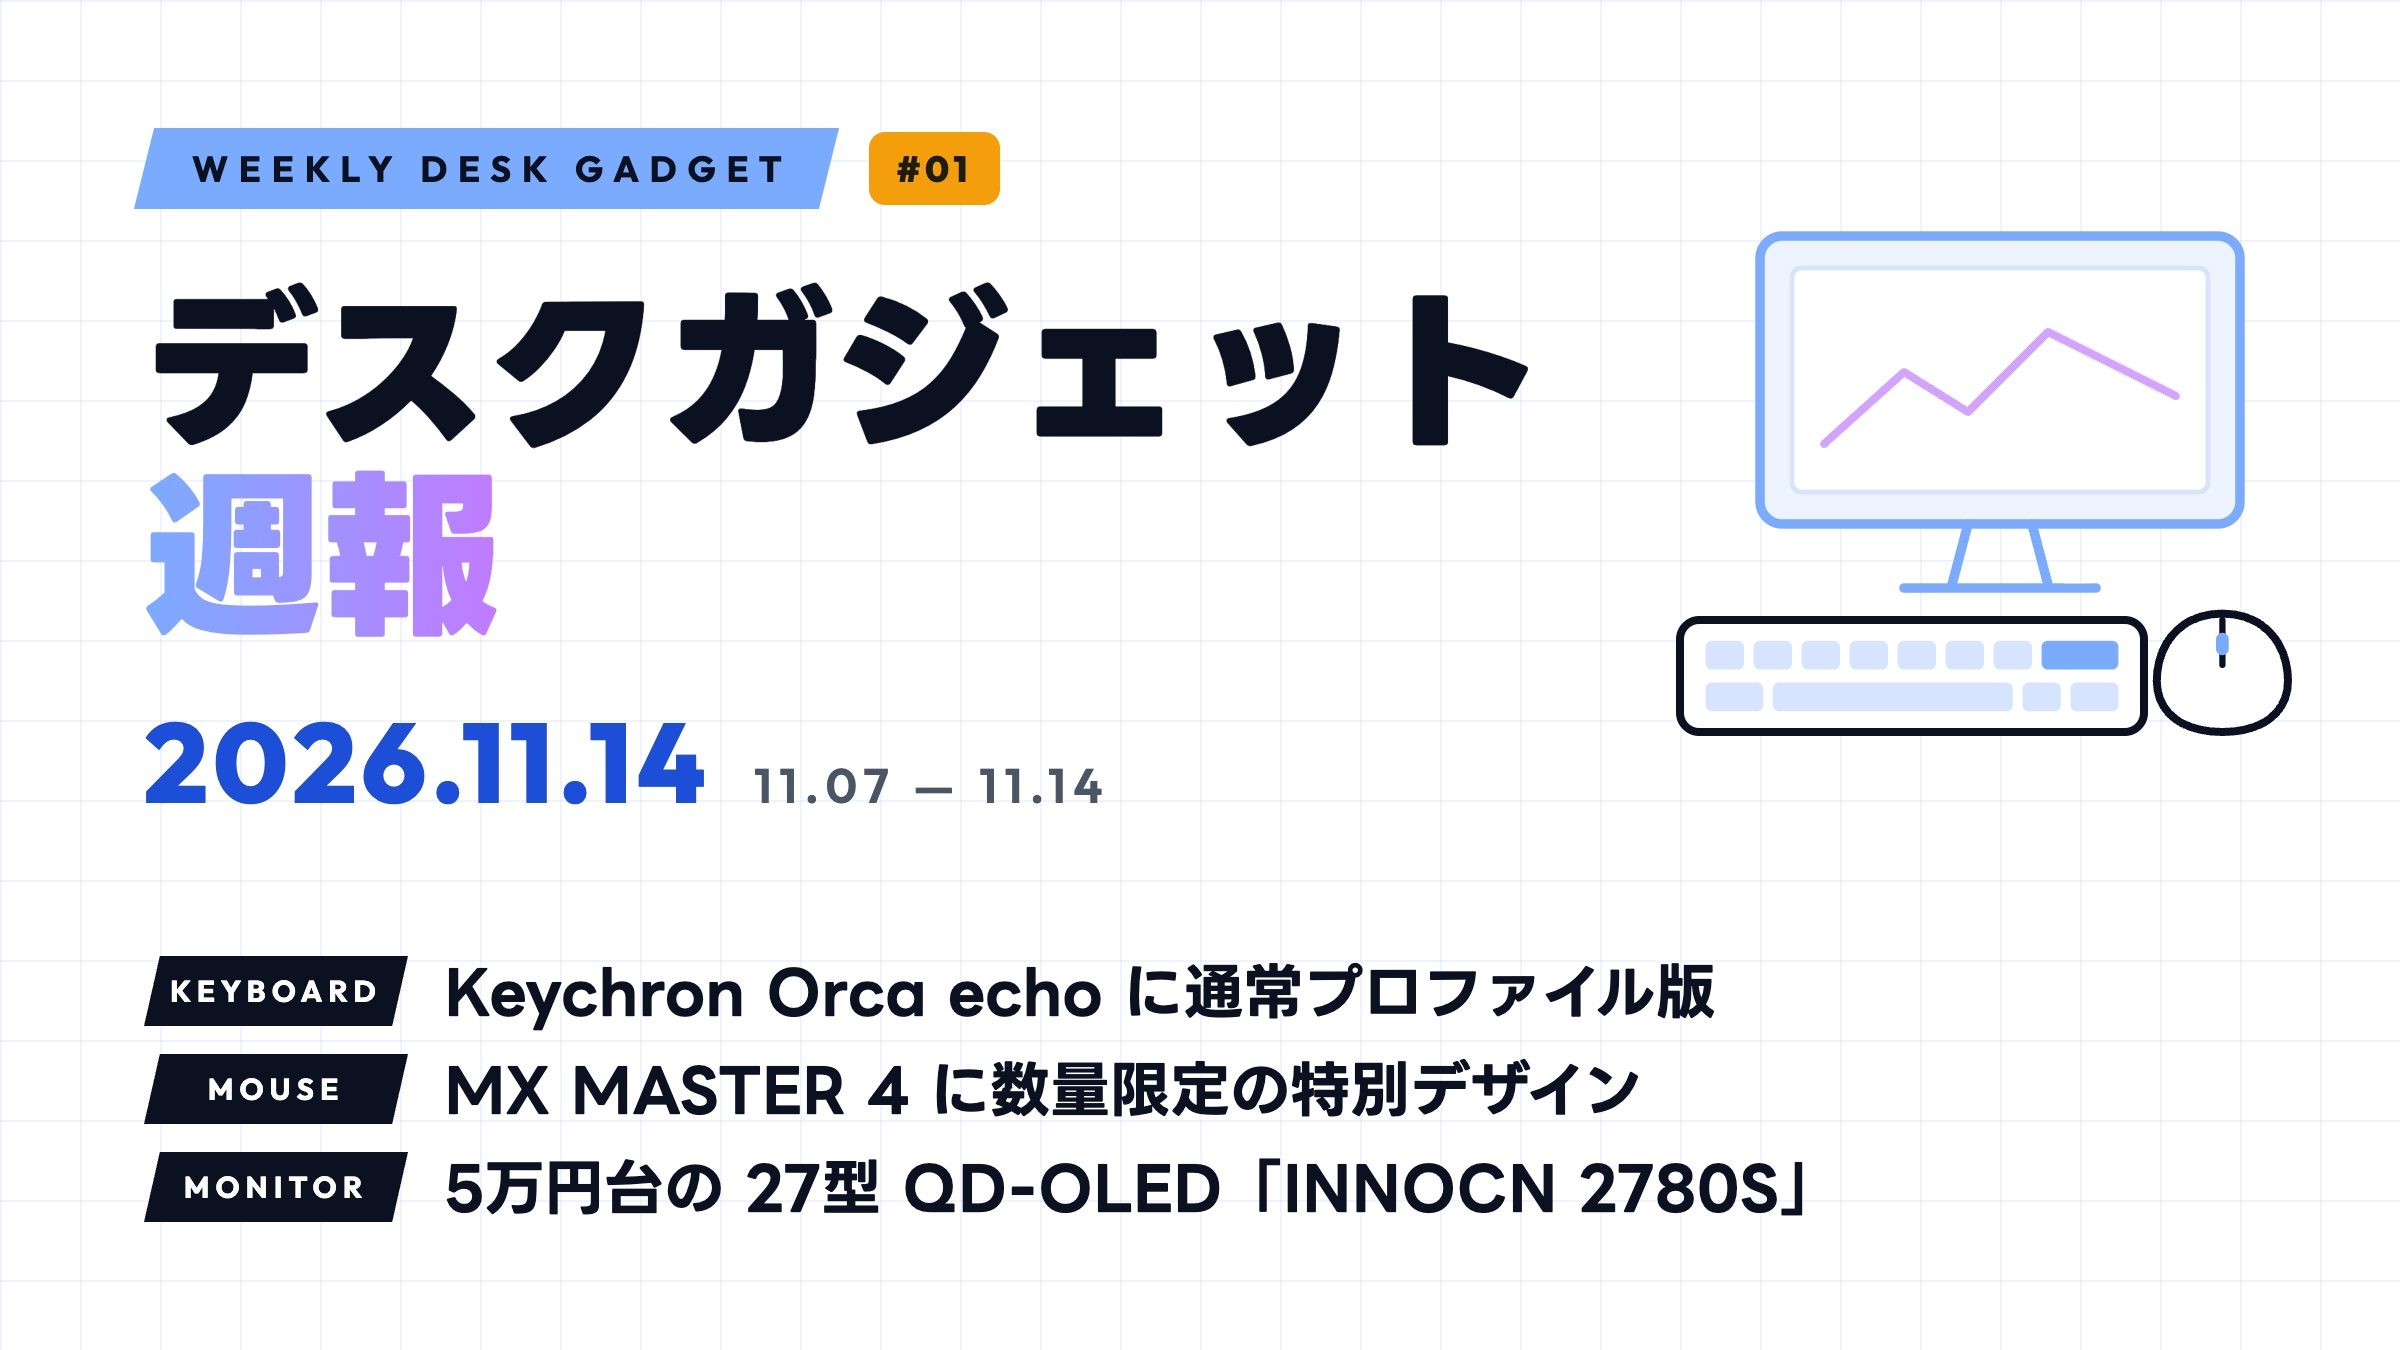
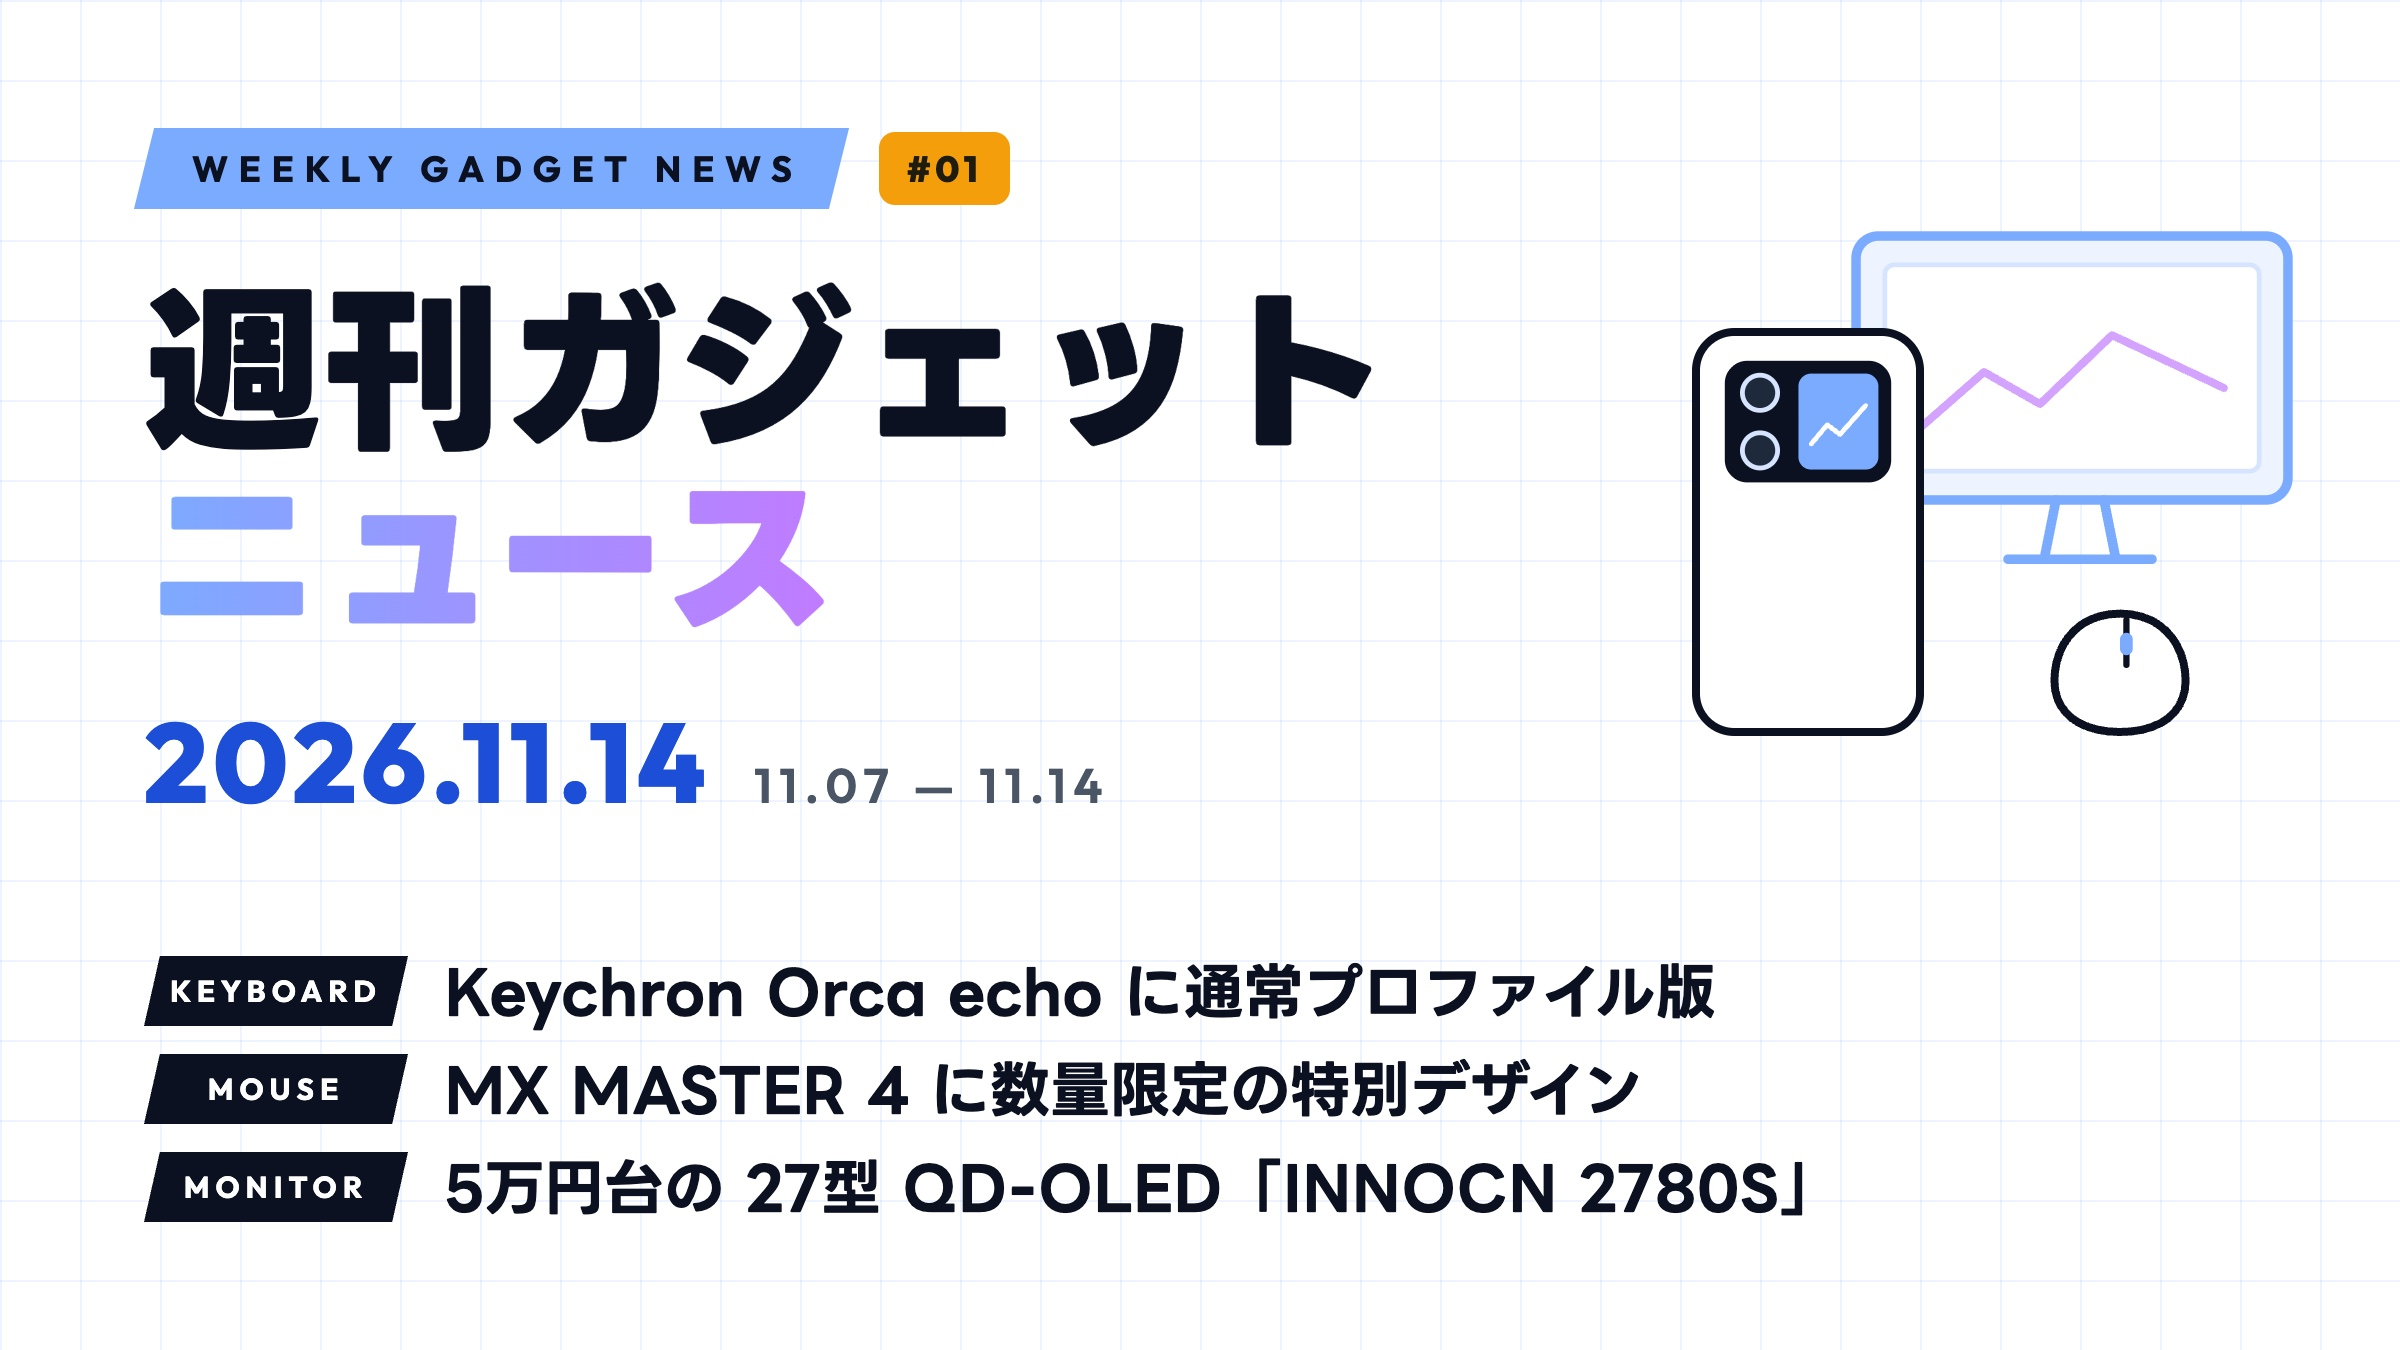
post: 週刊ガジェットニュース #02 を書き、シリーズ名を「週刊ガジェットニュース」に統一する
- gadget-weekly-2026-11-21 を作成(非公開)。出典を確認し、チップ名・ブランド名・色・接続方式・付属品などを修正
- #01(desk-gadget-weekly-2026-11-14)のタイトル・タグ・カバーを新シリーズ名に揃える(URL は維持)
- テンプレート・カバー・writing-guide・taxonomy を新シリーズ名に合わせる

Changed region(s): [[0.0625, 0.1867, 0.6562, 0.4978], [0.6875, 0.1556, 0.9688, 0.56], [0.1875, 0.0933, 0.4375, 0.1556]]

diff --git a/templates/gadget-weekly-cover.html b/templates/gadget-weekly-cover.html
@@ -149,7 +149,7 @@
   <div class="wrap">
     <div class="head">
       <div class="ribbon"><span>WEEKLY GADGET NEWS</span></div>
-      <div class="issue-no">#01</div>
+      <div class="issue-no">#02</div>
     </div>
 
     <h1 class="title">週刊ガジェット<br><span class="grad">ニュース</span></h1>
